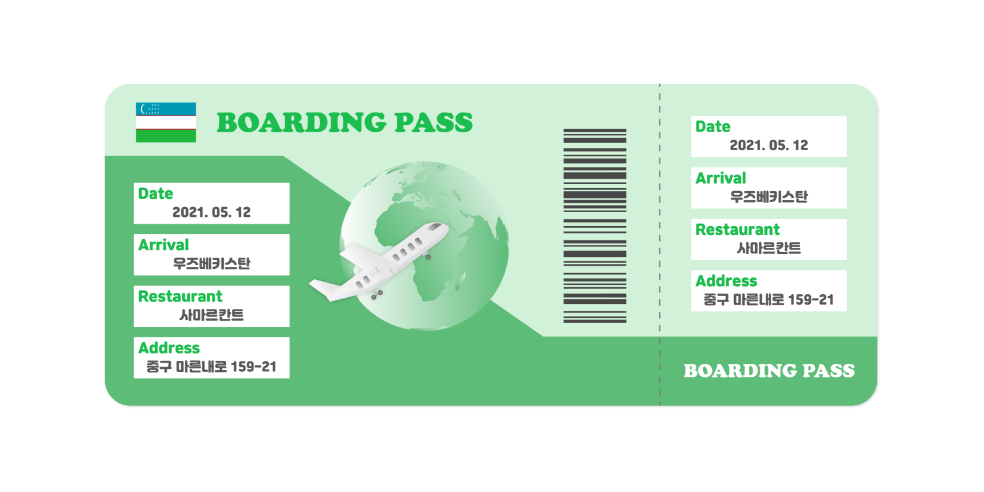
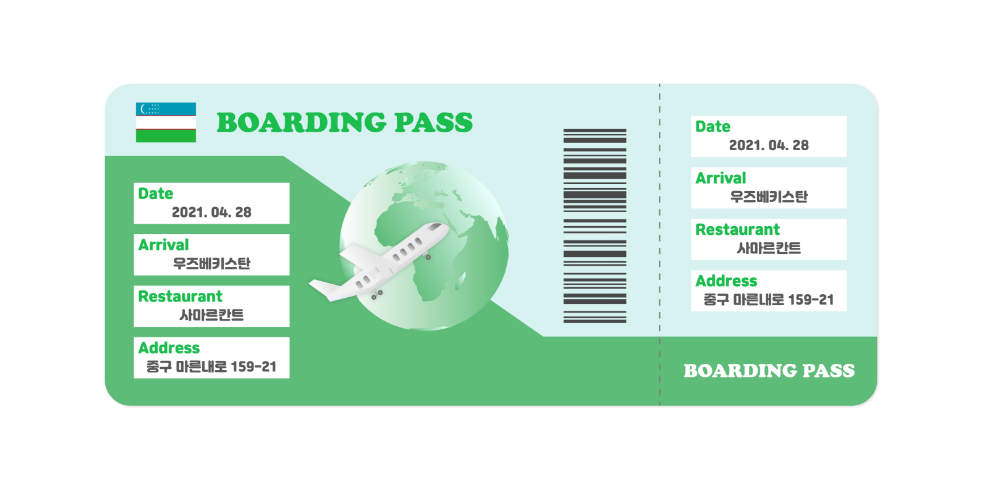
해피홈 레스토랑 코드 수정
아직 메뉴 이미지와 상세 설명 수정이 필요합니다!

Changed region(s): [[0.4268, 0.3354, 0.5183, 0.4878], [0.7317, 0.2744, 0.8232, 0.3049], [0.1829, 0.4268, 0.2439, 0.4573]]

diff --git a/code/happyhome.html b/code/happyhome.html
@@ -8,17 +8,17 @@
 		<!--font-->
 		<link rel="preconnect" href="https://fonts.gstatic.com">
 		<link href="https://fonts.googleapis.com/css2?family=Noto+Sans+KR:wght@100;300;400;500;700;900&display=swap" rel="stylesheet">
-		<title>해피홈</title>
+		<title>해피홈 레스토랑</title>
 	</head>
 
 	<body>
 		<!--header-->
-		<header style="background-color:#FFF087">
+		<header style="background-color:#E2E2E2">
 			<h1>
-				<img src="../assets/flag/brazil.png"/>
+				<img src="../assets/flag/nigeria.png"/>
 				<button id="exit_button"></button> <!--나가기 버튼-->
 			</h1>
-			<div id="country" style="color:#0050a0">
+			<div id="country" style="color:#008751">
 				나이지리아
 			</div>
 		</header>
@@ -30,14 +30,14 @@
 		<!--content1: restaurant name, information-->
 		<div id="content1">
 			<div id="title">
-			<h2> 해피홈 </h2>
+			<h2> 해피홈 레스토랑 </h2>
 			<a href="#target"><button id="ticket_button"> </button> </a>
 			</div>
 			<p> <strong> 영업시간 </strong> | 매일 12:00 - 23:00 </p>
 			<details>
-				<summary>  <strong> 주소 </strong>  | 서울 용산구 보광로60길7 2층 </summary>
+				<summary>  <strong> 주소 </strong>  | 서울 용산구 보광로60길 7 2층 </summary>
 				<p> 구글 지도 길찾기 </p>
-				<iframe id = "map" src="https://www.google.com/maps/embed?pb=!1m18!1m12!1m3!1d3163.895198401632!2d126.98752311526884!3d37.53396767980405!2m3!1f0!2f0!3f0!3m2!1i1024!2i768!4f13.1!3m3!1m2!1s0x357ca24a389558b5%3A0xf575335e2f3c2bb2!2z7L2U7YyM7Lm067CU64KYIOq3uOumtA!5e0!3m2!1sko!2skr!4v1618477377082!5m2!1sko!2skr" ></iframe>
+				<iframe id = "map" src="https://www.google.com/maps/embed?pb=!1m18!1m12!1m3!1d3163.9189901485865!2d126.99786576400145!3d37.533406869290566!2m3!1f0!2f0!3f0!3m2!1i1024!2i768!4f13.1!3m3!1m2!1s0x357ca24af5be9eeb%3A0xff99923aab058f2!2z7ZW07ZS87ZmI66CI7Iqk7Yag656R!5e0!3m2!1sko!2skr!4v1618897901819!5m2!1sko!2skr" ></iframe>
 			</details>
 			</div>
 
@@ -46,7 +46,7 @@
 		<!--content2: restaurant description-->
 		<div id="content2">
 			<p>
-			코파카바나 그릴은 녹사평과 이태원 중간에 위치한 브라질 슈하스코 무한리필집입니다. <br> 브라질식 꼬치구이 스테이크인 슈하스코와 맛있는 샐러드바를 무한으로 즐겨요!
+			해피홈 레스토랑은 이태원1동에 위치한 나이지리아 가정식 음식점입니다. <br> 고슬고슬한 졸로프 라이스, 쫄깃한 푸푸와 함께 아프리카의 향을 즐겨요! (수정)
 			</p>
 		</div>
 
@@ -75,19 +75,19 @@
 		<div id="content4">
 			<ul>
 				<li>
-					<h3>안창살</h3>
-					<h4> 이국적이고 진한 육향을 내는<br>브라질식 꼬치구이</h4>
-					<h5> 평일 런치 29,000원 </h5>
+					<h3>졸로프 라이스</h3>
+					<h4>이미지 변경 예정<br>나이지리아식 볶음밥</h4>
+					<h5>11,000원</h5>
 				</li>
 				<li>
-					<h3>삼겹살</h3>
-					<h4> 보섭살, 소세지, 치킨, 베이컨 등<br>브라질식 꼬치구이</h4>
-					<h5> 평일 저녁·주말 35,000원 </h5>
+					<h3>푸푸</h3>
+					<h4>이미지 변경 예정<br>입력이 필요합니다</h4>
+					<h5>15,000원</h5>
 				</li>
 				<li>
-					<h3>샐러드바</h3>
-					<h4> 브라질에서 찾은 익숙한 향기<br>한국의 샐러드바</h4>
-					<h5> 무한리필 이용시 무료 </h5>
+					<h3>곱창 스프</h3>
+					<h4>이미지 변경 예정<br>입력이 필요합니다</h4>
+					<h5>10,000원</h5>
 				</li>
 			</ul>
 		</div>
@@ -95,18 +95,18 @@
 		<!--content5 : expression-->
 		<div id="content5">
 			<p>
-			Vou aproveitar esta comida!
+			Let's dig in together!
 			</p>
 		</div>
 
 		<!--ticket : hide & auto scroll-->
 		<a name="target">
 			<div id="ticket">
-				<p style = "color:#0050A0">
+				<p style = "color:#008751">
 					Eat the World, Meet the world!
 				</p>
-				<img src="../assets/restaurant/copacabanagrill/ticket.png"/>
-				<a href="../assets/restaurant/copacabanagrill/ticket.png" ><button id="download_button"></button>
+				<img src="../assets/restaurant/happyhome/ticket.png"/>
+				<a href="../assets/restaurant/happyhome/ticket.png" ><button id="download_button"></button>
 				</a>
 			</div>
 		</a>
